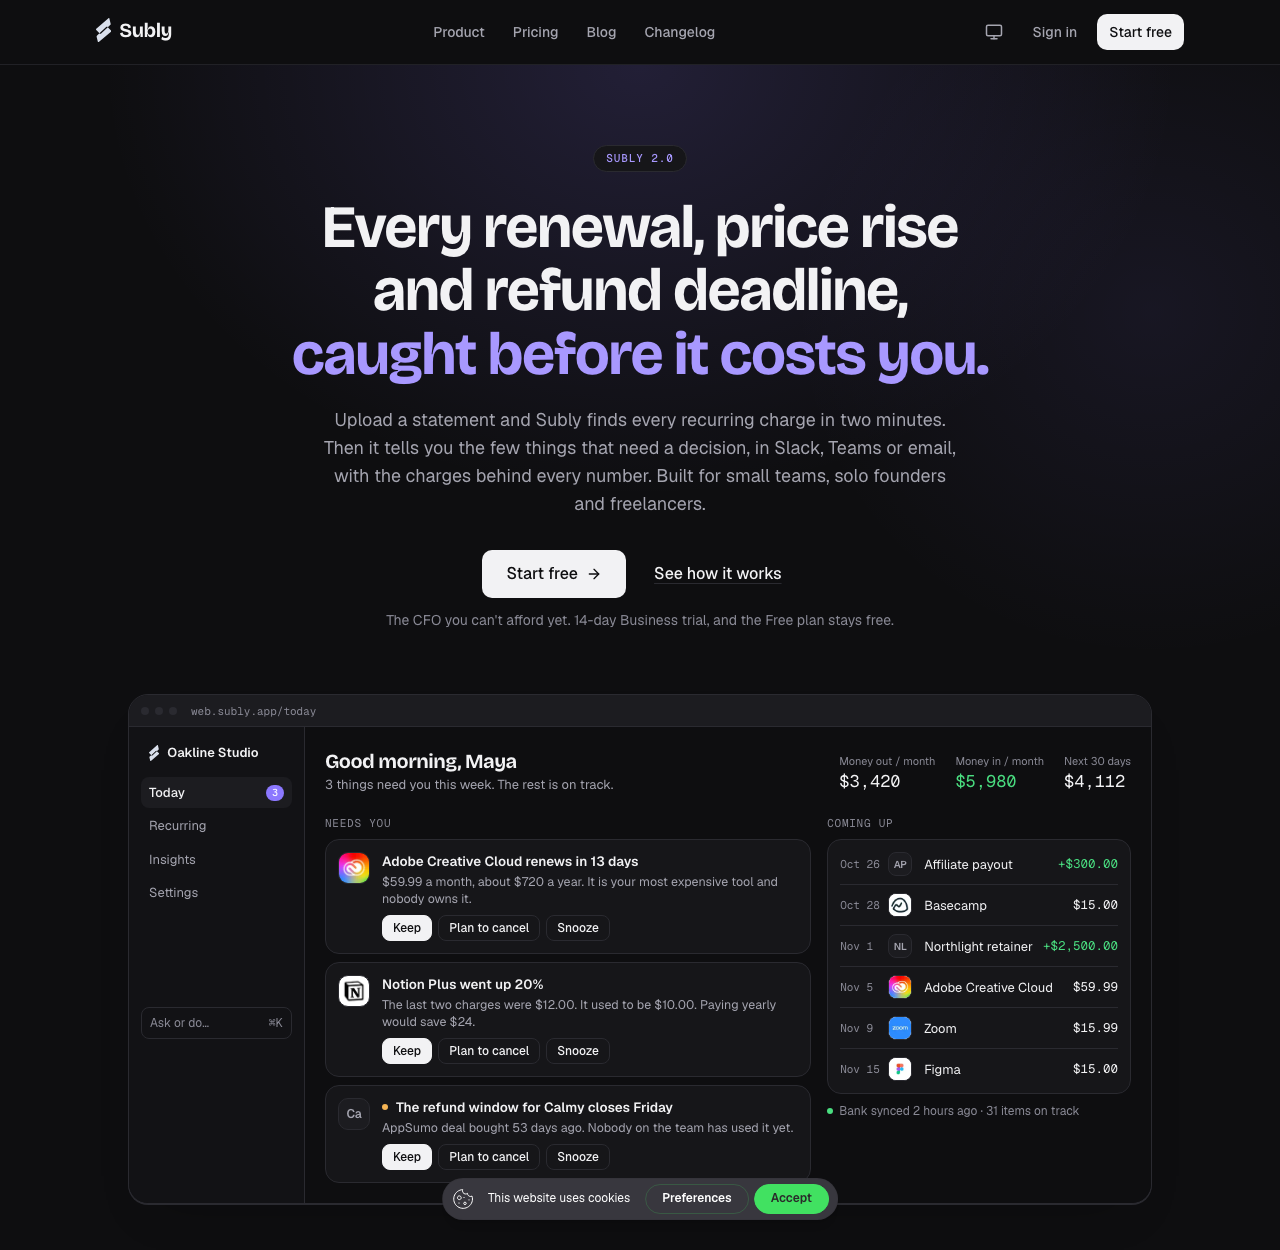
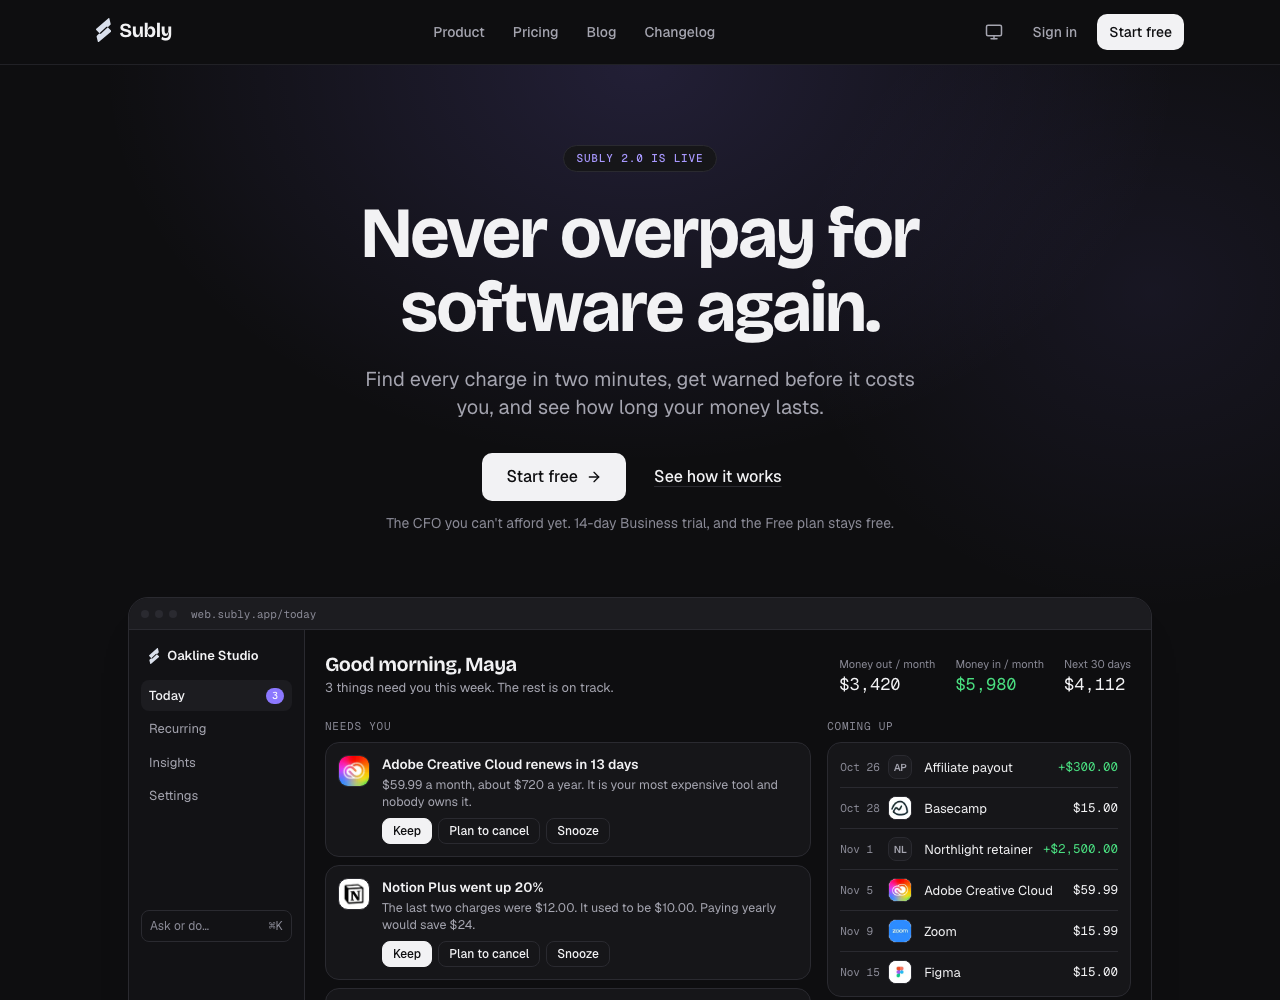
Hero: short benefit headline, one-sentence description, single-colour title

diff --git a/components/home/hero.tsx b/components/home/hero.tsx
@@ -1,17 +1,13 @@
 import { ArrowRight } from 'lucide-react'
 import { AnchorButton } from '@/components/ui/button'
-import { Container, Mark } from '@/components/ui/section'
+import { Container } from '@/components/ui/section'
 import { TodayScreen } from '@/components/home/today-screen'
 import { SIGNUP_URL } from '@/lib/site'
 
 export function Hero({
-  eyebrow = 'Subly 2.0',
-  title = (
-    <>
-      Every renewal, price rise and refund deadline, <Mark>caught before it costs you.</Mark>
-    </>
-  ),
-  sub = 'Upload a statement and Subly finds every recurring charge in two minutes. Then it tells you the few things that need a decision, in Slack, Teams or email, with the charges behind every number. Built for small teams, solo founders and freelancers.',
+  eyebrow = 'Subly 2.0 is live',
+  title = 'Never overpay for software again.',
+  sub = 'Find every charge in two minutes, get warned before it costs you, and see how long your money lasts.',
   cta = 'Start free',
   note = "The CFO you can't afford yet. 14-day Business trial, and the Free plan stays free.",
 }: {
@@ -24,14 +20,14 @@ export function Hero({
   return (
     <section className="hero-glow relative overflow-hidden pb-16 pt-12 sm:pb-24 sm:pt-20">
       <Container>
-        <div className="mx-auto max-w-4xl text-center">
+        <div className="mx-auto max-w-5xl text-center">
           <p className="inline-flex items-center gap-2 rounded-full border border-border bg-card px-3 py-1 font-mono text-[11px] font-medium uppercase tracking-[0.08em] text-brand-ink">
             {eyebrow}
           </p>
-          <h1 className="mt-6 font-display text-[2.1rem] font-bold leading-[1.06] tracking-tight text-balance sm:text-5xl lg:text-6xl">
+          <h1 className="mt-6 font-display text-[2.6rem] font-bold leading-[1.04] tracking-tight text-balance sm:text-6xl lg:text-7xl">
             {title}
           </h1>
-          <p className="mx-auto mt-5 max-w-2xl text-base text-pretty text-muted-foreground sm:text-lg">{sub}</p>
+          <p className="mx-auto mt-5 max-w-xl text-lg text-pretty text-muted-foreground sm:text-xl">{sub}</p>
           <div className="mt-8 flex flex-col items-center justify-center gap-3 sm:flex-row">
             <AnchorButton href={SIGNUP_URL} size="lg" className="w-full sm:w-auto">
               {cta}

diff --git a/lib/personas.tsx b/lib/personas.tsx
@@ -1,5 +1,4 @@
 import type { ReactNode } from 'react'
-import { Mark } from '@/components/ui/section'
 
 export type Persona = {
   slug: 'teams' | 'founders' | 'households'
@@ -28,7 +27,7 @@ export const personas: Record<Persona['slug'], Persona> = {
     eyebrow: 'For teams and agencies',
     title: (
       <>
-        An owner on every tool. <Mark>No surprise renewals.</Mark>
+        An owner on every tool. No surprise renewals.
       </>
     ),
     ogTitle: 'An owner on every tool. No surprise renewals.',
@@ -72,7 +71,7 @@ export const personas: Record<Persona['slug'], Persona> = {
     eyebrow: 'For founders and freelancers',
     title: (
       <>
-        Know what is left after the tools <Mark>and the clients.</Mark>
+        Know what is left after the tools and the clients.
       </>
     ),
     ogTitle: 'Know what is left after the tools and the clients.',
@@ -116,7 +115,7 @@ export const personas: Record<Persona['slug'], Persona> = {
     eyebrow: 'For households',
     title: (
       <>
-        Stop paying for things <Mark>you forgot you had.</Mark>
+        Stop paying for things you forgot you had.
       </>
     ),
     ogTitle: 'Stop paying for things you forgot you had.',

diff --git a/app/(site)/layout.tsx b/app/(site)/layout.tsx
@@ -11,7 +11,7 @@ import '../globals.css'
 export const metadata: Metadata = {
   metadataBase: new URL(SITE_URL),
   title: {
-    default: 'Subly: catch every renewal, price rise and refund deadline',
+    default: 'Subly: never overpay for software again',
     template: '%s | Subly',
   },
   description: DEFAULT_DESCRIPTION,
@@ -21,10 +21,10 @@ export const metadata: Metadata = {
     type: 'website',
     siteName: SITE_NAME,
     url: SITE_URL,
-    title: 'Subly: catch every renewal, price rise and refund deadline',
+    title: 'Subly: never overpay for software again',
     description: DEFAULT_DESCRIPTION,
     locale: 'en_US',
-    images: [{ url: '/og', width: 1200, height: 630, alt: 'Subly: catch every renewal, price rise and refund deadline' }],
+    images: [{ url: '/og', width: 1200, height: 630, alt: 'Subly: never overpay for software again' }],
   },
   twitter: { card: 'summary_large_image', site: '@sublyweb', images: ['/og'] },
   icons: { icon: [{ url: '/favicon.ico' }, { url: '/icon.png', type: 'image/png' }], apple: '/apple-icon.png' },

diff --git a/app/(site)/page.tsx b/app/(site)/page.tsx
@@ -14,7 +14,7 @@ import { Testimonials } from '@/components/home/testimonials'
 import { DEFAULT_DESCRIPTION, SITE_URL } from '@/lib/site'
 
 export const metadata: Metadata = {
-  title: { absolute: 'Subly: catch every renewal, price rise and refund deadline' },
+  title: { absolute: 'Subly: never overpay for software again' },
   description: DEFAULT_DESCRIPTION,
   alternates: { canonical: '/' },
 }

diff --git a/app/og/route.tsx b/app/og/route.tsx
@@ -4,7 +4,7 @@ import { ImageResponse } from 'next/og'
 
 const font = (name: string) => readFile(path.join(process.cwd(), 'assets/fonts', name))
 
-const DEFAULT_TITLE = 'Every renewal, price rise and refund deadline, caught before it costs you.'
+const DEFAULT_TITLE = 'Never overpay for software again.'
 
 export async function GET(request: Request) {
   const { searchParams } = new URL(request.url)
